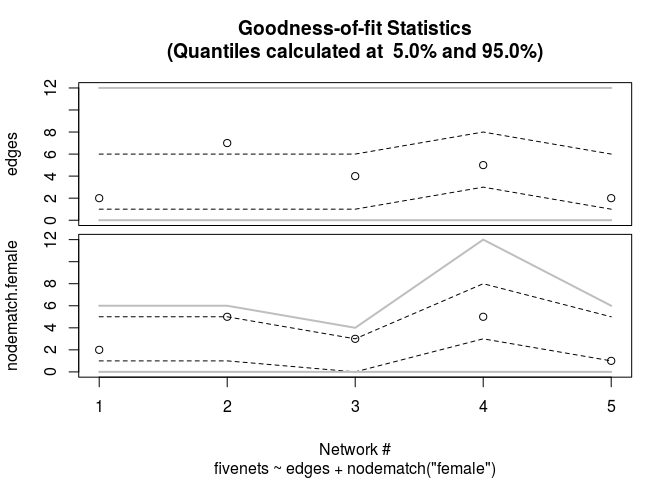
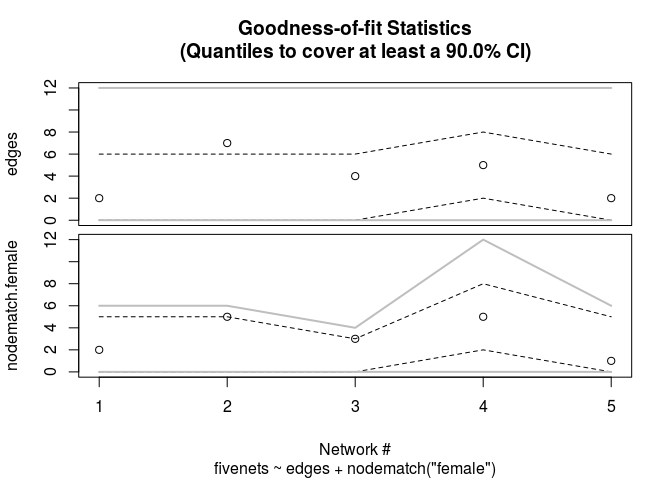
Working on GOF, adding geodesics (although not sure how to use that in small networks)

diff --git a/src/RcppExports.cpp b/src/RcppExports.cpp
@@ -31,6 +31,18 @@ BEGIN_RCPP
     return rcpp_result_gen;
 END_RCPP
 }
+// geodesic
+ListOf< IntegerMatrix > geodesic(const std::vector< IntegerMatrix >& X, bool force);
+RcppExport SEXP _ergmito_geodesic(SEXP XSEXP, SEXP forceSEXP) {
+BEGIN_RCPP
+    Rcpp::RObject rcpp_result_gen;
+    Rcpp::RNGScope rcpp_rngScope_gen;
+    Rcpp::traits::input_parameter< const std::vector< IntegerMatrix >& >::type X(XSEXP);
+    Rcpp::traits::input_parameter< bool >::type force(forceSEXP);
+    rcpp_result_gen = Rcpp::wrap(geodesic(X, force));
+    return rcpp_result_gen;
+END_RCPP
+}
 // exact_loglik
 arma::vec exact_loglik(const arma::mat& x, const arma::colvec& params, const std::vector< arma::rowvec >& weights, const std::vector< arma::mat >& statmat, bool as_prob);
 RcppExport SEXP _ergmito_exact_loglik(SEXP xSEXP, SEXP paramsSEXP, SEXP weightsSEXP, SEXP statmatSEXP, SEXP as_probSEXP) {
@@ -144,6 +156,7 @@ END_RCPP
 static const R_CallMethodDef CallEntries[] = {
     {"_ergmito_count_available", (DL_FUNC) &_ergmito_count_available, 1},
     {"_ergmito_count_stats", (DL_FUNC) &_ergmito_count_stats, 3},
+    {"_ergmito_geodesic", (DL_FUNC) &_ergmito_geodesic, 2},
     {"_ergmito_exact_loglik", (DL_FUNC) &_ergmito_exact_loglik, 5},
     {"_ergmito_exact_gradient", (DL_FUNC) &_ergmito_exact_gradient, 4},
     {"_ergmito_init_network", (DL_FUNC) &_ergmito_init_network, 6},

diff --git a/src/count_stats.cpp b/src/count_stats.cpp
@@ -1,4 +1,4 @@
-#include <Rcpp.h>
+#include <RcppArmadillo.h>
 using namespace Rcpp;
 
 /* This function may be useful in the future:
@@ -334,3 +334,49 @@ x <- powerset(5)
 s <- count_stats(x[1:1e5], c("mutual", "edges"))
 
 */
+
+inline IntegerMatrix geodesici(const arma::imat & x, bool force = false) {
+  
+  int n = x.n_rows;
+  if (n != x.n_cols)
+    stop("Not a square matrix.");
+  
+  if (n > 100 && !force)
+    stop("This is not the best way for computing distances for n > 100 (see ?geodesic).");
+  
+  arma::imat res(x.n_rows, x.n_cols);
+  res.fill(-1);
+  arma::imat res_tmp = x;
+  
+  // List of indices to check
+  unsigned int changes = 0u;
+  for (int iter = 0; iter < n; ++iter) {
+    changes = 0;
+    for (int i = 0; i < n; ++i)
+      for (int j = 0; j < n; ++j) {
+        if (i != j && res_tmp.at(i, j) != 0 && (res.at(i, j) == -1)) 
+          res.at(i, j) = iter + 1, ++changes;
+      }
+      
+      // Powermatrix
+      res_tmp *= x;
+  }
+  
+  return wrap(res);
+  
+}
+
+// [[Rcpp::export(name = "geodesic.")]]
+ListOf< IntegerMatrix > geodesic(
+    const std::vector< IntegerMatrix > & X,
+    bool force = false) {
+  
+  ListOf< IntegerMatrix > res(X.size());
+  
+  for (int i = 0; i < X.size(); ++i)
+    res[i] = geodesici(as< arma::imat >(X[i]), force);
+  
+  return res;
+  
+  
+}

diff --git a/README.md b/README.md
@@ -237,27 +237,29 @@ summary(model1) # This data has know parameters equal to -2.0 and 2.0
 We can also compute GOF
 
 ``` r
-fivenets_gof <- gof(model1)
+fivenets_gof <- gof_ergmito(model1)
 fivenets_gof
 #> 
-#> Goodness-of-fit for  edges 
+#> Goodness-of-fit for edges 
 #> 
-#>       obs min p50 max  5.0% 95.0%
-#> net 1   2   0   4  12     1     6
-#> net 2   7   0   4  12     1     6
-#> net 3   4   0   3  12     1     6
-#> net 4   5   0   6  12     3     8
-#> net 5   2   0   4  12     1     6
+#>       obs min mean max lower upper lower prob. upper prob.
+#> net 1   2   0  3.7  12     0     6      0.0081        0.96
+#> net 2   7   0  3.7  12     0     6      0.0081        0.96
+#> net 3   4   0  3.1  12     0     6      0.0206        0.99
+#> net 4   5   0  5.6  12     2     8      0.0309        0.95
+#> net 5   2   0  3.7  12     0     6      0.0081        0.96
 #> 
 #> 
-#> Goodness-of-fit for  nodematch.female 
+#> Goodness-of-fit for nodematch.female 
 #> 
-#>       obs min p50 max  5.0% 95.0%
-#> net 1   2   0   3   6     1     5
-#> net 2   5   0   3   6     1     5
-#> net 3   3   0   2   4     0     3
-#> net 4   5   0   6  12     3     8
-#> net 5   1   0   3   6     1     5
+#>       obs min mean max lower upper lower prob. upper prob.
+#> net 1   2   0  2.8   6     0     5       0.022        0.99
+#> net 2   5   0  2.8   6     0     5       0.022        0.99
+#> net 3   3   0  1.9   4     0     3       0.079        0.95
+#> net 4   5   0  5.6  12     2     8       0.031        0.95
+#> net 5   1   0  2.8   6     0     5       0.022        0.99
+#> 
+#> Note: Exact confidence intervals where used. This implies that the requestes CI may differ from the one used (see ?gof).
 plot(fivenets_gof)
 ```
 
